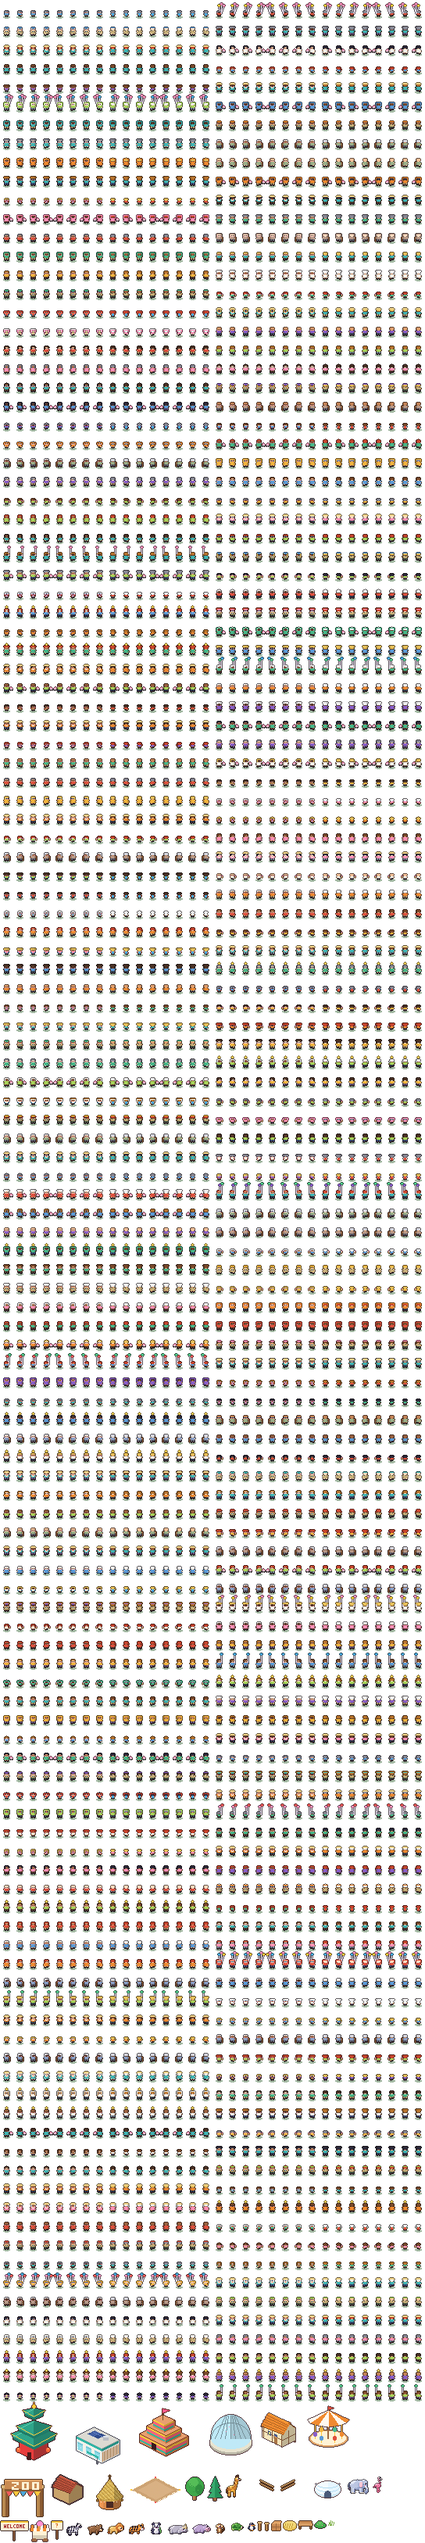
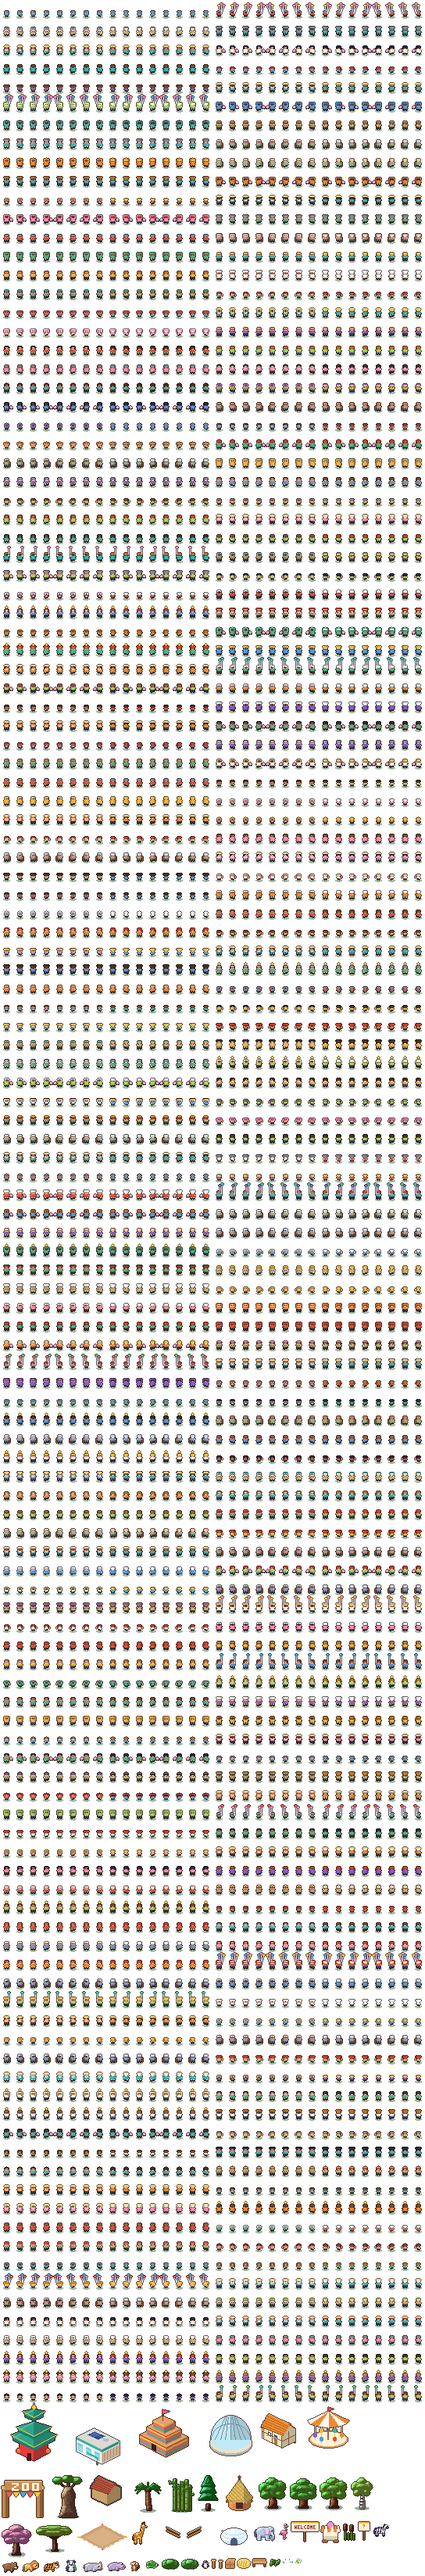
Nová vegetace (malované stromy, keře, savana a Asie), návrh mechanik MECHANICS.md

diff --git a/web/src/main.js b/web/src/main.js
@@ -101,11 +101,16 @@ function fenceRect(i0, j0, i1, j1, gaps = []) {
   for (let j = j0 + 1; j < j1; j++) for (const i of [i0, i1]) prop('post' + ((i + j) & 1), i, j, 3);
 }
 
+const TREES = ['oak1', 'oak2', 'oak3', 'pine1', 'birch'];
+const SMALL = ['bush1', 'bush2', 'flowers', 'tuft', 'flowers', 'tuft'];
+function pickDecor(rng) { return rng() < 0.3 ? TREES[Math.floor(rng() * TREES.length)] : SMALL[Math.floor(rng() * SMALL.length)]; }
+
 function buildLots() {
   for (const { a, b } of lotsIn(R)) {
     const key = lotKey(a, b), lot = lots[key], bx = lotBox(a, b), rng = rngFor('lot', key);
     if (lot && (lot.t === 'paddock' || lot.t === 'pond')) {
       fenceRect(bx.i0, bx.j0, bx.i1, bx.j1);
+      if (lot.t === 'pond') { prop('reeds', bx.ci - 1.6, bx.cj + 1.4, 3); prop('reeds', bx.ci + 1.7, bx.cj - 1.3, 1); }
       (lot.animals || []).forEach((an, k) => {
         const p = lot.t === 'pond' ? [bx.ci - 0.7 + k * 1.1, bx.cj - 0.4 + k * 0.9] : [bx.i0 + 0.9 + rng() * (bx.i1 - bx.i0 - 1.8), bx.j0 + 0.9 + rng() * (bx.j1 - bx.j0 - 1.8)];
         const s = prop('a_' + an, p[0], p[1], 1);
@@ -118,11 +123,10 @@ function buildLots() {
       prop(lot.sprite, bx.ci + 1, bx.cj + 1, 1);
     } else {
       // volná louka: pár stromů, keřů a plevele (hustota klesá s růstem zoo)
-      const n = 2 + Math.floor(rng() * 3);
+      const n = 3 + Math.floor(rng() * 3);
       for (let k = 0; k < n; k++) {
         const i = bx.i0 + 0.5 + rng() * (bx.i1 - bx.i0 - 1), j = bx.j0 + 0.5 + rng() * (bx.j1 - bx.j0 - 1);
-        const r = rng();
-        prop(r < 0.45 ? 'tree_round' : r < 0.7 ? 'tree_pine' : r < 0.85 ? 'bush' : 'weeds', i, j, 1);
+        prop(pickDecor(rng, i, j), i, j, 1);
       }
     }
   }
@@ -134,7 +138,8 @@ function buildBorder() {
   const i0 = -BLOCK * R - M, i1 = BLOCK * R + M, j0 = -BLOCK * R - M, j1 = GATE_J + M;
   for (let i = i0; i <= i1; i++) for (let j = j0; j <= j1; j++) {
     if (inRegion(i, j, R) || rng() > 0.07) continue;
-    prop(rng() < 0.6 ? 'tree_round' : 'tree_pine', i + rng(), j + rng(), 1);
+    if (j > GATE_J && j < GATE_J + 6 && Math.abs(i) < 9) continue;   // prostranství před bránou zůstane volné
+    prop(TREES[Math.floor(rng() * TREES.length)], i + rng(), j + rng(), 1);
   }
 }
 
@@ -150,7 +155,7 @@ function buildEntrance() {
   objects.addChild(boardSprite);
   setBoard(zoo.coins);
   prop('bench', -1.6, 1.4, 1); prop('bench', 1.8, 1.4, 1);
-  prop('weeds', 2.0, 3.0, 1); prop('weeds', -4.1, 5.3, 1); prop('weeds', 4.4, 5.2, 1);
+  prop('tuft', 2.0, 3.0, 1); prop('flowers', -4.1, 5.3, 1); prop('tuft', 4.4, 5.2, 1); prop('pine1', -5.6, 4.8, 1);
 }
 function setBoard(coins) {
   const t = Texture.from(boardCanvas(font, coins)); t.source.scaleMode = 'nearest';

diff --git a/art/proto/vegetation.py b/art/proto/vegetation.py
@@ -1,0 +1,191 @@
+"""ZOO: vegetace v2. Stromy a keře s objemem (renderer z painted.py): kupy listí se stínováním, vnitřní obrysy mezi kupami,
+kůra, stín na zemi, tropické a savanové druhy pro rodiny výběhů.
+Použití: python vegetation.py <výstupní složka>   (arch vegetace + srovnání se starými stromy)"""
+import sys, os, math, random
+import numpy as np
+from PIL import Image, ImageDraw
+import painted as pt
+from painted import Paint, make_ramp, hx
+
+SHADOW = (30, 80, 40, 120)
+
+def finish(p, shadow=None):
+    im = p.render()
+    if shadow:
+        cx, cy, rx, ry = shadow
+        full = Image.new('RGBA', im.size, (0, 0, 0, 0))
+        ImageDraw.Draw(full).ellipse([cx - rx + 1, cy - ry + 1, cx + rx + 1, cy + ry + 1], fill=SHADOW)
+        full.alpha_composite(im); im = full
+    return im
+
+def speckle(p, pts, color, rng, n=10, box=None):
+    """světlé tečky listí v levé horní části (dojem jednotlivých listů)"""
+    for _ in range(n):
+        x, y = rng.choice(pts)
+        p.dot(x + rng.randint(-2, 1), y + rng.randint(-3, 0), color)
+
+def puffs(p, centers, base, rng, edge=True, light=None, fur=0.06):
+    """kupy listí (zadní nahoře, přední dole); každá kupa má vlastní objem a vnitřní obrys"""
+    ramp = make_ramp(base)
+    for (cx, cy, rx, ry) in centers:
+        p.ellipse(cx, cy, rx, ry, base, ramp=ramp, edge=edge, bump=.15, fur=fur)
+    return ramp
+
+def oak(seed=1, base='#58b84a'):
+    rng = random.Random(seed)
+    p = Paint(36, 44, seed)
+    trunk = '#8a5a3a'
+    p.region([(15, 24), (21, 24), (22, 36), (24, 40), (12, 40), (14, 36)], trunk, fur=.05)
+    p.region([(15, 26), (17, 26), (17, 38), (15, 38)], '#a87048', fur=.03)
+    cs = [(18, 11, 8, 7), (10, 17, 8, 7), (26, 17, 8, 7), (18, 19, 11, 8), (8, 24, 6, 5), (28, 24, 6, 5), (18, 26, 8, 5)]
+    if seed % 2: cs = [(17, 10, 8, 7), (26, 14, 8, 7), (9, 16, 8, 7), (18, 19, 10, 8), (27, 24, 6, 5), (9, 24, 6, 5)]
+    puffs(p, cs, base, rng)
+    ramp = make_ramp(base)
+    speckle(p, [(c[0] - c[2] // 2, c[1] - c[3] // 2) for c in cs], ramp[5], rng, 16)
+    for (x, y) in [(12, 21), (22, 14), (25, 23)]:
+        if seed == 3: p.dot(x, y, '#ff6a6a')
+    return finish(p, (18, 40, 11, 3))
+
+def pine(seed=1):
+    rng = random.Random(seed)
+    p = Paint(30, 46, seed)
+    p.region([(13, 36), (17, 36), (17, 43), (13, 43)], '#7a4a2e', fur=.04)
+    for k, (y, w) in enumerate([(24, 12), (15, 10), (7, 8)]):
+        p.region([(15, y - 14 + 2), (15 + w, y + 6), (15 - w, y + 6)], '#2e9a5a' if k != 1 else '#33a560', edge=True, bump=.12, fur=.07)
+    p.region([(15, 1), (18, 9), (12, 9)], '#3aae68', edge=True, bump=.12, fur=.07)
+    return finish(p, (15, 43, 9, 2))
+
+def birch(seed=1):
+    rng = random.Random(seed)
+    p = Paint(30, 44, seed)
+    p.region([(14, 20), (17, 20), (18, 41), (13, 41)], '#ece6dc', fur=.03)
+    for yy in (24, 28, 32, 36):
+        p.pattern(lambda d, yy=yy: d.rectangle([13, yy, 15 + (yy % 3), yy + 1], fill=255), '#4a4048')
+    cs = [(15, 9, 6, 6), (8, 14, 6, 6), (22, 14, 6, 6), (15, 16, 8, 7), (9, 21, 4, 4), (21, 21, 4, 4)]
+    puffs(p, cs, '#8fd060', rng)
+    return finish(p, (15, 41, 9, 2))
+
+def palm(seed=1):
+    rng = random.Random(seed)
+    p = Paint(44, 48, seed)
+    p.region([(20, 18), (23, 18), (25, 30), (26, 43), (21, 43), (20, 32)], '#a8784a', fur=.05)
+    for yy in range(22, 42, 4):
+        p.pattern(lambda d, yy=yy: d.line([(19, yy), (27, yy + 1)], fill=255), '#7a5030')
+    leaf = '#3fa84a'
+    fronds = [(-1, -4, 15), (-1, 0, 16), (-1, 4, 14), (1, -4, 15), (1, 0, 16), (1, 4, 14), (0, -6, 6)]
+    for (sgn, dy, ln) in fronds:
+        x0, y0 = 22, 16
+        pts = [(x0, y0), (x0 + sgn * ln * 0.5, y0 - 5 + dy * 0.4), (x0 + sgn * ln, y0 + 2 + dy), (x0 + sgn * ln * 0.55, y0 - 1 + dy * 0.3)]
+        p.region(pts, leaf, edge=True, bump=.05, fur=.05)
+    p.region([(20, 15), (24, 15), (24, 19), (20, 19)], '#3aa045', edge=True)
+    p.ellipse(21, 19, 1.6, 1.6, '#7a5030'); p.ellipse(24, 19, 1.6, 1.6, '#7a5030')
+    return finish(p, (22, 44, 10, 2))
+
+def acacia(seed=1):
+    rng = random.Random(seed)
+    p = Paint(50, 38, seed)
+    p.region([(24, 18), (27, 18), (28, 34), (30, 36), (22, 36), (24, 34)], '#7a5030', fur=.05)
+    p.region([(24, 22), (14, 14), (15, 12), (26, 19)], '#7a5030', fur=.05)
+    p.region([(26, 22), (36, 14), (35, 12), (25, 19)], '#7a5030', fur=.05)
+    for (cx, cy, rx, ry) in [(25, 10, 20, 5), (12, 12, 9, 4), (38, 12, 9, 4), (25, 14, 14, 4)]:
+        p.ellipse(cx, cy, rx, ry, '#7fb84a', edge=True, bump=.12, fur=.07)
+    return finish(p, (26, 36, 12, 2))
+
+def baobab(seed=1):
+    rng = random.Random(seed)
+    p = Paint(46, 54, seed)
+    p.region([(14, 52), (18, 36), (17, 22), (21, 14), (29, 14), (33, 22), (32, 36), (36, 52)], '#9a7a5a', fur=.07, bump=.25)
+    for (x, y) in [(20, 30), (28, 26), (24, 40), (18, 46), (30, 44)]:
+        p.pattern(lambda d, x=x, y=y: d.line([(x, y), (x + 1, y + 6)], fill=255), '#6a4e38')
+    for (x0, y0, x1, y1) in [(21, 14, 12, 7), (29, 14, 36, 7), (25, 14, 25, 5)]:
+        p.region([(x0 - 1, y0), (x0 + 1, y0), (x1 + 1, y1), (x1 - 1, y1)], '#7a5a3a', fur=.04)
+    for (cx, cy, rx, ry) in [(12, 6, 6, 4), (36, 6, 6, 4), (25, 4, 7, 4)]:
+        p.ellipse(cx, cy, rx, ry, '#5fb04a', edge=True, bump=.12)
+    return finish(p, (25, 52, 14, 2))
+
+def bamboo(seed=1):
+    rng = random.Random(seed)
+    p = Paint(34, 48, seed)
+    xs = [8, 13, 18, 23, 27]
+    for k, x in enumerate(xs):
+        top = 4 + (k * 7) % 10
+        p.region([(x, top), (x + 3, top), (x + 3, 44), (x, 44)], '#78b848' if k % 2 else '#68a83c', edge=(k > 0), bump=.06, fur=.04)
+        for yy in range(top + 6, 44, 8):
+            p.pattern(lambda d, x=x, yy=yy: d.rectangle([x, yy, x + 3, yy], fill=255), '#3e7a2c')
+        for (dx, dy) in [(-4, top + 5), (4, top + 12)]:
+            sgn = 1 if dx > 0 else -1
+            p.region([(x + 1, dy), (x + 1 + sgn * 7, dy - 3), (x + 1 + sgn * 6, dy + 1)], '#58c050', edge=True)
+    return finish(p, (18, 44, 13, 2))
+
+def cherry(seed=1):
+    rng = random.Random(seed)
+    p = Paint(40, 44, seed)
+    p.region([(17, 24), (22, 24), (23, 37), (25, 41), (14, 41), (16, 37)], '#7a5240', fur=.05)
+    p.region([(18, 26), (11, 17), (13, 16), (19, 23)], '#7a5240', fur=.04)
+    p.region([(21, 26), (29, 17), (27, 16), (20, 23)], '#7a5240', fur=.04)
+    cs = [(20, 11, 9, 7), (10, 16, 8, 6), (30, 16, 8, 6), (20, 19, 11, 7), (11, 23, 6, 4), (29, 23, 6, 4)]
+    puffs(p, cs, '#f4a0c0', rng, fur=.08)
+    for (x, y) in [(8, 29), (33, 31), (15, 34), (26, 33)]: p.dot(x, y, '#ffd0e0')
+    return finish(p, (20, 41, 11, 3))
+
+def bush(seed=1, base='#4fb04a', berries=None):
+    rng = random.Random(seed)
+    p = Paint(22, 14, seed)
+    puffs(p, [(8, 7, 7, 5), (15, 7, 6, 5), (11, 5, 6, 4)], base, rng)
+    for (x, y) in (berries or []): p.dot(x, y, '#ff6a8a')
+    return finish(p, (11, 12, 8, 1))
+
+def flowers(seed=1):
+    rng = random.Random(seed)
+    im = Image.new('RGBA', (16, 8), (0, 0, 0, 0))
+    px = im.load()
+    for _ in range(7):
+        x, y = rng.randint(1, 14), rng.randint(2, 6)
+        px[x, y] = (70, 150, 60, 255); px[x, y - 1] = rng.choice([(255, 120, 150, 255), (255, 210, 70, 255), (255, 255, 255, 255), (180, 130, 240, 255)])
+    return im
+
+def reeds(seed=1):
+    p = Paint(18, 24, seed)
+    for k, x in enumerate([3, 7, 11, 14]):
+        top = 3 + (k * 5) % 9
+        p.region([(x, top + 6), (x + 1.6, top + 6), (x + 1.6, 22), (x, 22)], '#6aa84a', fur=.03)
+        if k % 2 == 0: p.region([(x - .6, top), (x + 2.2, top), (x + 2.2, top + 7), (x - .6, top + 7)], '#8a5a3a', fur=.03)
+    return finish(p)
+
+def tuft(seed=1):
+    p = Paint(14, 9, seed)
+    for k, x in enumerate([2, 5, 8, 11]):
+        p.region([(x, 8 - (k % 2) * 2), (x + 1.8, 8 - (k % 2) * 2), (x + 3, 1 + k % 3), (x + 1, 1 + k % 3)], '#5cb048' if k % 2 else '#74c458', fur=.03)
+    return finish(p)
+
+ALL = [('oak1', lambda: oak(1)), ('oak2', lambda: oak(2)), ('oak3', lambda: oak(3, '#6cc24e')), ('pine1', lambda: pine(1)), ('birch', birch),
+       ('palm', palm), ('acacia', acacia), ('baobab', baobab), ('bamboo', bamboo), ('cherry', cherry),
+       ('bush1', lambda: bush(1)), ('bush2', lambda: bush(2, '#5cb858', [(6, 5), (14, 6), (10, 3)])), ('flowers', flowers), ('reeds', reeds), ('tuft', tuft)]
+
+def sheet(out, scale=5):
+    import zoo_art as za, visitors, animals
+    za.load_style('C_hybrid')
+    ims = [(n, f()) for n, f in ALL]
+    old = [za.tree_round(), za.tree_pine(), za.bush()]
+    person = visitors.visitor(visitors.new_spec(11), 'SE', 0)
+    pad = 8
+    items = [('old', o) for o in old] + [('person', person)] + ims
+    W = sum(i.width + pad for _, i in items) + pad
+    H = max(i.height for _, i in items) + pad * 2
+    cols = 2
+    sh = Image.new('RGBA', (W, H), za.S['grass'][0])
+    px = sh.load(); rng = random.Random(1)
+    for y in range(H):
+        for x in range(W):
+            if rng.random() < .3: px[x, y] = rng.choice(za.S['grass'])
+    x = pad
+    for n, im in items:
+        sh.alpha_composite(im, (x, H - im.height - pad)); x += im.width + pad
+    sh.resize((sh.width * scale, sh.height * scale), Image.NEAREST).save(f'{out}/vegetation_sheet.png')
+    # řádky po 8 pro čitelnost
+    return sh
+
+if __name__ == '__main__':
+    out = sys.argv[1] if len(sys.argv) > 1 else 'veg_out'
+    os.makedirs(out, exist_ok=True)
+    sheet(out); print('ok')

diff --git a/art/proto/export_assets.py b/art/proto/export_assets.py
@@ -8,7 +8,7 @@ import json, os, sys, random
 from PIL import Image
 HERE = os.path.dirname(os.path.abspath(__file__))
 sys.path.insert(0, HERE)
-import zoo_art as za, animals, visitors, mini_zoo as mz
+import zoo_art as za, animals, visitors, mini_zoo as mz, vegetation as veg
 from zoo_art import hx
 
 OUT = os.path.join(HERE, '..', '..', 'web', 'public', 'assets')
@@ -56,7 +56,9 @@ def add(name, im, anchor=None):
     props[name] = (im, anchor or (im.width // 2, im.height - 2))
 
 for n, f in animals.ANIMALS: add('a_' + n, f())
-add('tree_round', za.tree_round(), (14, 33)); add('tree_pine', za.tree_pine(), (11, 33)); add('bush', za.bush(), (8, 9))
+for n, f in veg.ALL:
+    im = f()
+    add(n, im, (im.width // 2, im.height - 4 if n not in ('flowers', 'tuft', 'bush1', 'bush2', 'reeds') else im.height - 2))
 for n, fn in [('gate', mz.gate_poor), ('bench', mz.bench), ('crate', mz.crate), ('hay', mz.hay), ('weeds', mz.weeds), ('q_sign', mz.question_sign), ('plot', mz.stake_plot)]:
     im, a = fn(); add(n, im, a)
 im, a = mz.sign_board('WELCOME'); add('sign_welcome', im, a)

diff --git a/docs/MECHANICS.md b/docs/MECHANICS.md
@@ -1,0 +1,46 @@
+# Mechaniky: jak se zoo staví (návrh k odsouhlasení, 17. 11. 2026)
+
+Základ je z fronty (denní rytmus, hlasování v komentářích, noviny), jen místo války staví zoo. Nic se neničí, nikdo neumírá, nikdo nepřichází o mince.
+
+## 1. Příjem: mince
+- **Každý nový follower = 1 návštěvník = 10 mincí**, okamžitě (kasa u brány počítá živě).
+- Návštěvník nikdy neodejde a mince se nikdy neodečítají kvůli unfollow.
+- Bez followu nejde nic: komentář může jen **přiřadit jméno** (viz 5), ne vytvořit návštěvníka.
+
+## 2. Co se dá postavit (katalog, ceny jsou první odhad)
+| Skupina | Příklady | Cena (mince) | Poznámka |
+|---|---|---|---|
+| Výzdoba | lavička, květinový záhon, fontána, koš | 20–150 | rychlé, levné, na malé parcely |
+| Služby | vozík se zmrzlinou, kavárna, toalety, obchod se suvenýry, hřiště | 100–600 | zvyšují „hodnocení“ zoo, moderní rodina budov |
+| Výběhy | malý výběh + 2 zvířata, velký výběh, voliéra, akvárium, terárium | 400–2 000 | styl budovy podle rodiny (savana = africká, panda = asijská…) |
+| Atrakce | kolotoč, vláček, vyhlídková věž, obří kolo | 800–5 000 | zabírají víc parcel |
+| Zvíře do existujícího výběhu | slon, žirafa, panda, tučňák… | 200–1 500 | levnější způsob, jak zoo oživit |
+| Památky | brána z kamene, socha zakladatelů | 3 000+ | odemykají se milníky |
+
+## 3. Parcely a růst mapy
+- Mapa je mřížka bloků 5×5 (parcely) mezi silnicemi. Oblast se otevírá podle počtu návštěvníků (viz `engine/layout.js`).
+- **Vždy jsou volné aspoň 2 parcely** (ceduli „?“ si hráči všimnou). Nový prstenec = nové volné parcely.
+- Velká stavba (výběh, atrakce) zabere 2 až 4 sousední parcely; stavba se hlasuje na konkrétní parcelu (označená číslem na mapě).
+
+## 4. Hlasování (komentáře pod postem, jako ve frontě)
+- Rytmus: **ranní noviny 13:00 UTC** (výsledek minulého hlasování, nový den, nová stavba se otevře), **večerní post 23:00 UTC** (nové hlasování).
+- Post nabídne **3 možnosti** z katalogu, vždy **dostupné ze zůstatku** (aspoň jedna levná, ať se zoo nezasekne). Hlasuje se klíčovým slovem v komentáři (`PANDA`, `CAFE`, `CAROUSEL`).
+- **Jeden hlas na účet** (platí poslední); hlasovat smí kdokoli, kdo je návštěvník.
+- Vítěz se zaplatí z mincí a **staví se přes noc** (na mapě stavba s lešením a dělníky), ráno je otevřeno a nové noviny ho ukážou.
+- Při remíze rozhodne nejlevnější (nebo losování).
+
+## 5. Návštěvník a jeho jméno
+- Follow = anonymní návštěvník („Visitor #12408“, náhodný vzhled). 
+- **Komentář s klíčovým slovem** (`ZOO`, `MINE`…) nebo DM propojí účet s návštěvníkem: dostane své jméno a **vzhled podle účtu**.
+- Přání typu v komentáři („I want to be a photographer / grandpa / balloon fan“) mění vzhled postavičky (11 typů), jedno přání zdarma, pak 1× za 7 dní.
+- **Podporovatel** (Patreon/Friend of the zoo) má zlatou hvězdičku nad hlavou.
+
+## 6. Denní tah a noviny (Zoo Gazette)
+- Každé ráno: kolik návštěvníků přibylo, co se otevřelo, výsledek hlasování, 3–5 příhod vybraných návštěvníků (šablony jako ve frontě: „@name fed the flamingos“, „@name lost a balloon“), nové jméno týdne.
+- Každý návštěvník má na kartě **deník** s denními zápisy (kdo se přihlásil, ten se zapíše).
+
+## 7. Milníky (velké okamžiky pro reely)
+100, 500, 1 000, 5 000, 10 000 návštěvníků: odemknou novou skupinu katalogu, otevřou prstenec a pustí **slavnostní událost** (ohňostroj, páska se stříhá, balónky letí). Každý milník = jeden reel.
+
+## 8. Otevřené otázky (rozhodnout)
+Viz otázky v konverzaci; po odpovědích sem zapíšu pravidla definitivně.

diff --git a/docs/ART.md b/docs/ART.md
@@ -61,6 +61,12 @@ Zvíře v kohoutku je výškou po hřbet zhruba jako dospělý, slon ~2×, žira
 Kontrola: `styles/scale_check_visitors_vs_animals.png` (dva návštěvníci a všech 13 zvířat vedle sebe). Při přidání nového zvířete ho vždy porovnat s tímhle obrázkem.
 Parcely k zastavění jsou ploché (vyšlapaná zem, čárkovaný obrys, pásky v rozích) a cedule „?“ je před nimi, bez kůlů.
 
+## Vegetace (v2, `art/proto/vegetation.py`)
+
+Staré stromy (kulička a smrček) nahrazeny malovanými: kupy listí se stínováním a vnitřním obrysem, kůra, stín na zemi (renderer z `painted.py`).
+Druhy: 3 duby, smrk, bříza, palma, akácie, baobab, bambus, třešeň, 2 keře, květiny, rákosí, trs trávy. Palma, akácie, baobab (savana), bambus a třešeň (Asie) jsou připravené pro rodiny výběhů.
+V mapě: louky mají mix (30 % stromy, jinak keře/květiny/tráva), okraj je řídký les, před bránou volno, rybníček má rákosí. Arch: `styles/vegetation_sheet.png`.
+
 Plán:
 - **Kulisy, zvířata, budovy, terén:** vlastní generace (kód) nebo PixelLab (`create_object_pro_flash`, izometrie) – podle toho, co vypadá lépe; vždy s paletou výše.
 - **Návštěvníci (stovky variant, chůze 4–8 směrů):** PixelLab `create_character` + animace (postup z fronty: `tools/pixellab.py`, ledger proti duplikátům, `sprite_qa.py`). Generace jsou omezené, proto jednou správně.
